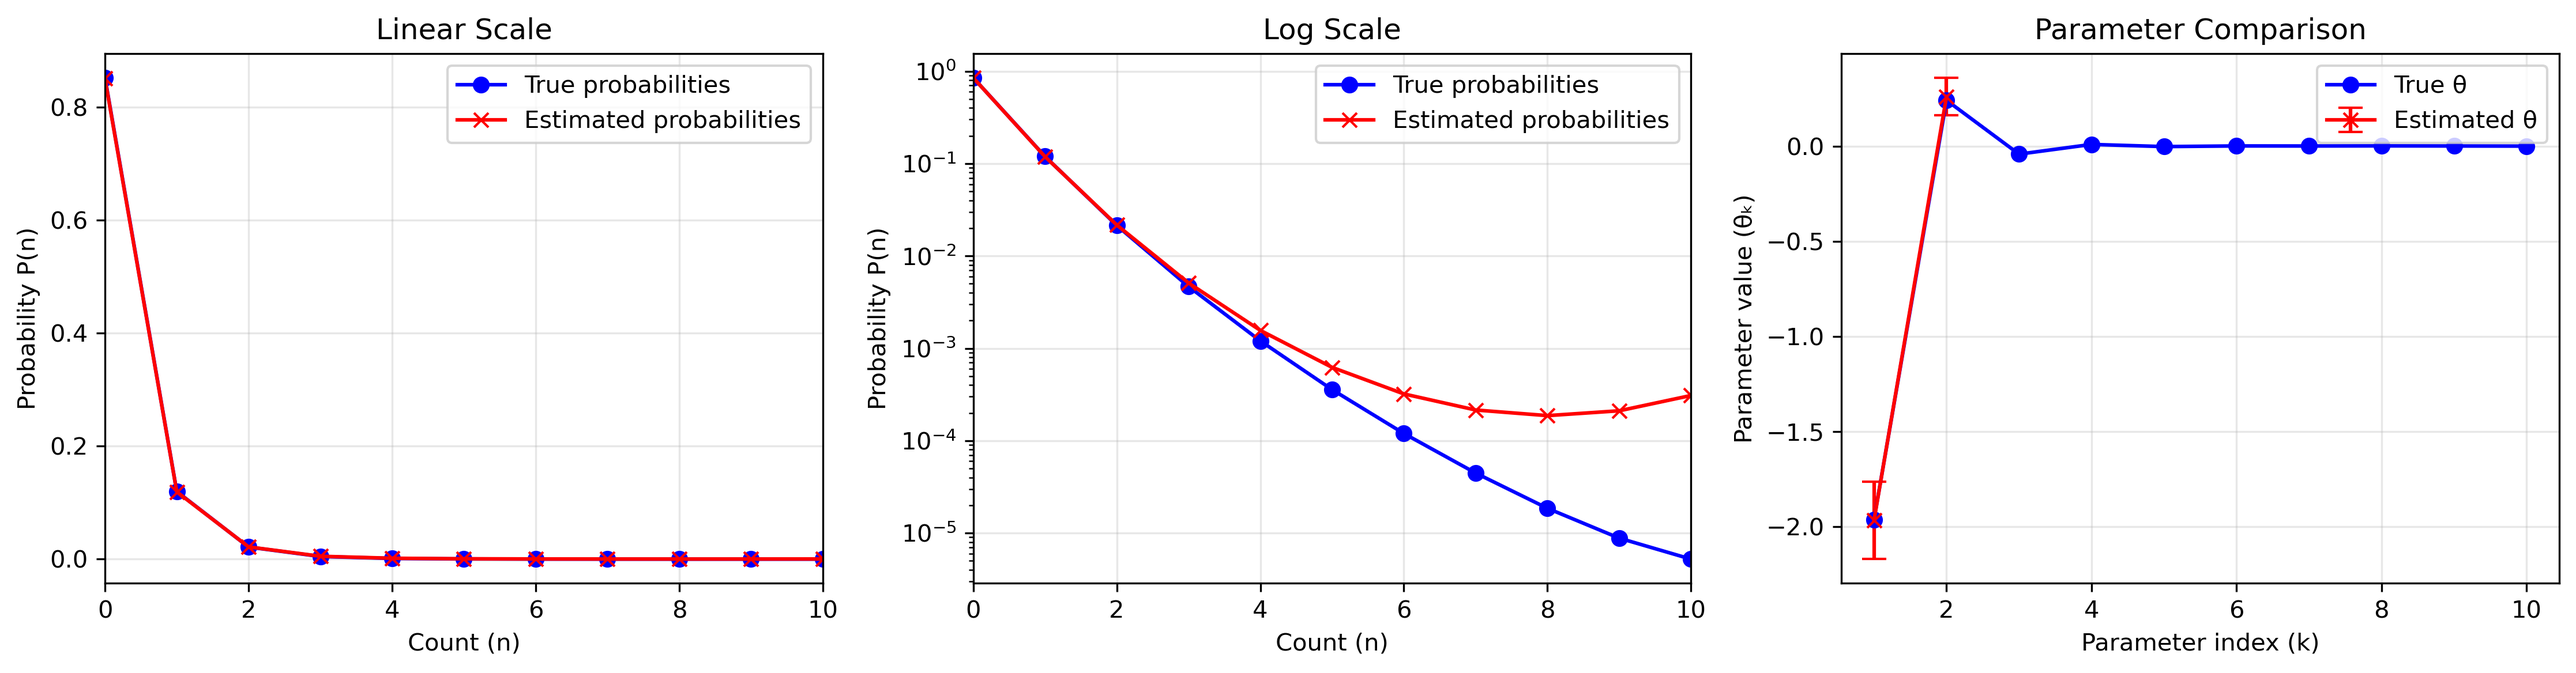
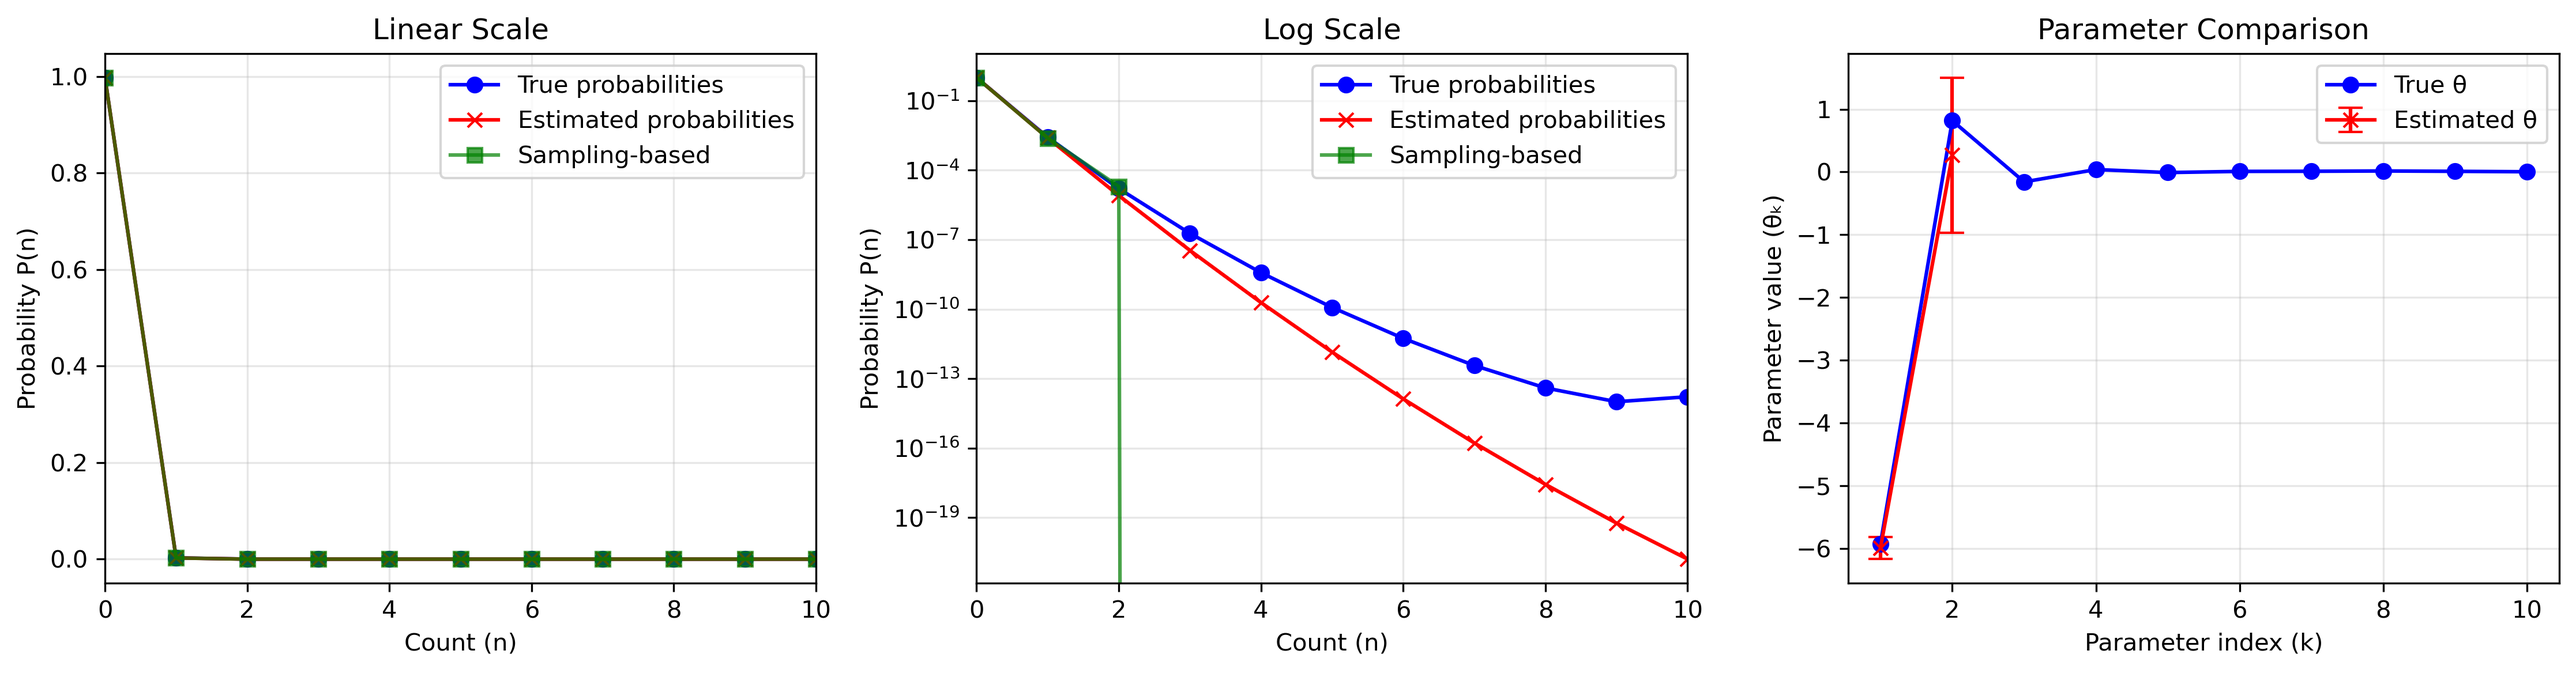
Update environment, figures, and add CLAUDE.md project instructions
Update environment.yml to Python 3.10+, add Gibbs sampling option and
sample-based probability overlay to fig_alternating_shrinking_fit.py,
regenerate figures, and add CLAUDE.md with project documentation.

diff --git a/fig_alternating_shrinking_fit.py b/fig_alternating_shrinking_fit.py
@@ -10,7 +10,7 @@ import model_alternating_shrinking
 import model_homogeneous_exp as probability
 from scipy.special import comb
 
-def plot_probability_comparison(true_probs, est_probs, N, true_theta, est_theta, Sigma=None):
+def plot_probability_comparison(true_probs, est_probs, N, true_theta, est_theta, Sigma=None, sample_probs=None):
     """
     Create a figure comparing true and estimated probabilities and parameters.
     
@@ -28,12 +28,16 @@ def plot_probability_comparison(true_probs, est_probs, N, true_theta, est_theta,
         Estimated model parameters
     Sigma : ndarray, optional
         Posterior covariance matrix for parameter uncertainty
+    sample_probs : ndarray, optional
+        Sampling-based probability distribution P(n)
     """
     fig, (ax1, ax2, ax3) = plt.subplots(1, 3, figsize=(15, 4))
 
     # Plot probabilities in linear scale
     ax1.plot(true_probs, 'o-', color='blue', label='True probabilities')
     ax1.plot(est_probs, 'x-', color='red', label='Estimated probabilities')
+    if sample_probs is not None:
+        ax1.plot(sample_probs, 's-', color='green', label='Sampling-based', alpha=0.7)
     ax1.legend()
     ax1.set_xlim(0, N)
     ax1.set_xlabel('Count (n)')
@@ -44,6 +48,8 @@ def plot_probability_comparison(true_probs, est_probs, N, true_theta, est_theta,
     # Plot probabilities in log scale
     ax2.plot(true_probs, 'o-', color='blue', label='True probabilities')
     ax2.plot(est_probs, 'x-', color='red', label='Estimated probabilities')
+    if sample_probs is not None:
+        ax2.plot(sample_probs, 's-', color='green', label='Sampling-based', alpha=0.7)
     ax2.legend()
     ax2.set_xlim(0, N)
     ax2.set_xlabel('Count (n)')
@@ -80,23 +86,39 @@ if __name__ == "__main__":
     N = 10
     K = 2  # Maximum order of interaction (second-order model)
     
-    f = 1.0  # sparsity-inducing parameter
-    m = 0.1   # power law exponent
-    Cj_func = lambda j: 1 / j**m
+    # f = 1 # sparsity-inducing parameter
+    # m = 1   # power law exponent
+    # Cj_func = lambda j: 1 / j**m
 
-    f = 30
-    tau = .7
+    f = 80
+    tau = .8
     Cj_func = lambda j: tau**j
 
+    # Sampling method selection
+    use_gibbs = True  # Set to True for Gibbs sampling, False for exact sampling
+    
     # Compute true probabilities
     true_probs = model_alternating_shrinking.compute_n_spike_pmf_with_func(N, f, Cj_func)
 
     # Generate samples and fit using MAP with EM
-    sample_size = 500
-    samples = model_alternating_shrinking.sample_spike_counts(N, f, Cj_func, size=sample_size)
+    sample_size = 50000
+    h_func = lambda n: 1.0 / comb(N, n) if 0 <= n <= N else 0.0
+    
+    if use_gibbs:
+        gibbs_samples = model_alternating_shrinking.gibbs_sampler(N, f, Cj_func, h_func, 
+                                                                 steps=sample_size+1000, burn_in=1000, seed=42)
+        samples = np.sum(gibbs_samples, axis=1)
+    else:
+        samples = model_alternating_shrinking.sample_spike_counts(N, f, Cj_func, size=sample_size)
+    
+    # Compute sampling-based probability distribution
+    sample_probs = np.zeros(N + 1)
+    for n in range(N + 1):
+        sample_probs[n] = np.sum(samples == n) / len(samples)
+    
+    # Fittig model
     q = np.ones(K) * 1.0  # prior variances for K-th order model
     theta0 = np.zeros(K)
-    h_func = lambda n: 1.0 / comb(N, n) if 0 <= n <= N else 0.0
 
     theta_est, Sigma, q, res = probability.em_update(N, samples, h_func, K=K)
     #theta_est = probability.estimate_ml_parameters(N, samples, h=h_func).x
@@ -107,6 +129,10 @@ if __name__ == "__main__":
     true_theta = model_alternating_shrinking.cj_to_theta(Cj_original, f)
 
     print("True theta:", true_theta)
-    fig = plot_probability_comparison(true_probs, est_probs, N, true_theta, theta_est, Sigma)
+    print("Sampling-based probabilities (first 5):", sample_probs[:5])
+    print("True probabilities (first 5):", true_probs[:5])
+    print("Estimated probabilities (first 5):", est_probs[:5])
+    
+    fig = plot_probability_comparison(true_probs, est_probs, N, true_theta, theta_est, Sigma, sample_probs)
     plt.savefig('fig/fig_alternating_shrinking_fit.png', dpi=300, bbox_inches='tight')
     plt.show()

diff --git a/CLAUDE.md b/CLAUDE.md
@@ -1,0 +1,55 @@
+# CLAUDE.md — popcount
+
+## Project Overview
+
+Population count (popcount) models for neural spike data. Implements homogeneous exponential family models and alternating shrinking higher-order interaction models for sparse neural population activity.
+
+Based on: Rodríguez-Domínguez & Shimazaki (2023), "Alternating Shrinking Higher-order Interactions for Sparse Neural Population Activity" (arXiv:2308.13257).
+
+## Environment
+
+- Conda env: `popcount` (Python 3.6.4)
+- Activate: `conda activate popcount`
+- Dependencies: numpy, scipy, matplotlib, tqdm
+
+## Running Tests
+
+```bash
+conda activate popcount
+python -m pytest -v
+```
+
+Note: `run_tests.py` requires `pytest-cov` which may not be installed. Use `python -m pytest -v` directly.
+
+## Project Structure
+
+### Models
+- `model_homogeneous_exp.py` — Homogeneous exponential family model (ML/MAP estimation, EM, sampling)
+- `model_alternating_shrinking.py` — Alternating shrinking model with Gibbs sampling
+- `model_deformed_exp.py` — Deformed exponential model
+- `model_dichotomized_gaussian.py` — Dichotomized Gaussian model
+- `model_leaky_integrate_and_fire.py` — Leaky integrate-and-fire model
+
+### Figure Scripts
+- `fig_*.py` — Each generates a specific figure for the paper/analysis
+
+### Tests
+- `test_homogeneous_exp.py` — Tests for homogeneous exponential model
+- `test_model_alternating_shrinking.py` — Tests for alternating shrinking model
+- `test_model_homogeneous_exp.py` — Tests for homogeneous exponential model (expanded)
+
+## Key API Patterns
+
+The core model function signature pattern:
+```python
+P(n) = C(N,n) * h(n) * exp(sum_k C(n,k) * theta_k) / Z(theta)
+```
+- `N` — system size (number of neurons)
+- `K` — model order (number of theta parameters)
+- `theta` — natural parameters array
+- `h` — base rate function (callable, default h(n)=1)
+
+## Known Issues
+
+- Python 3.6 lacks `math.comb` (added in 3.8); use `scipy.special.comb` instead
+- Some test failures exist due to API signature mismatches between tests and model code
